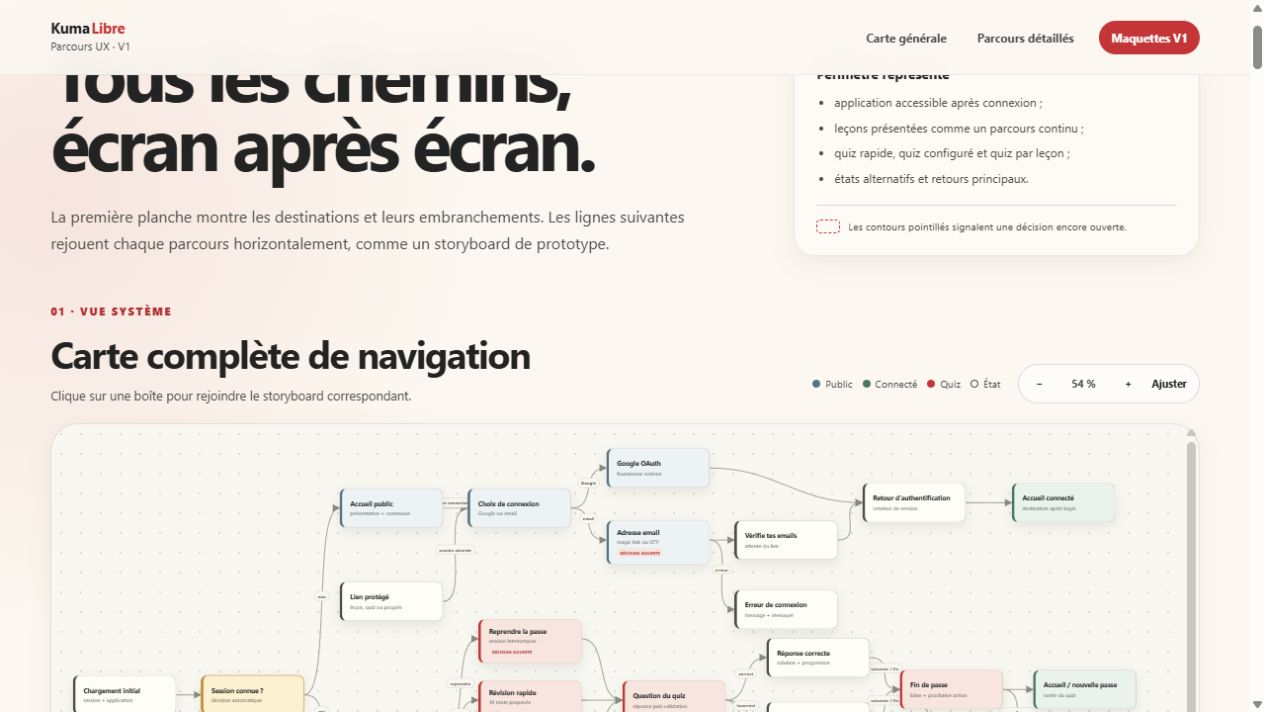
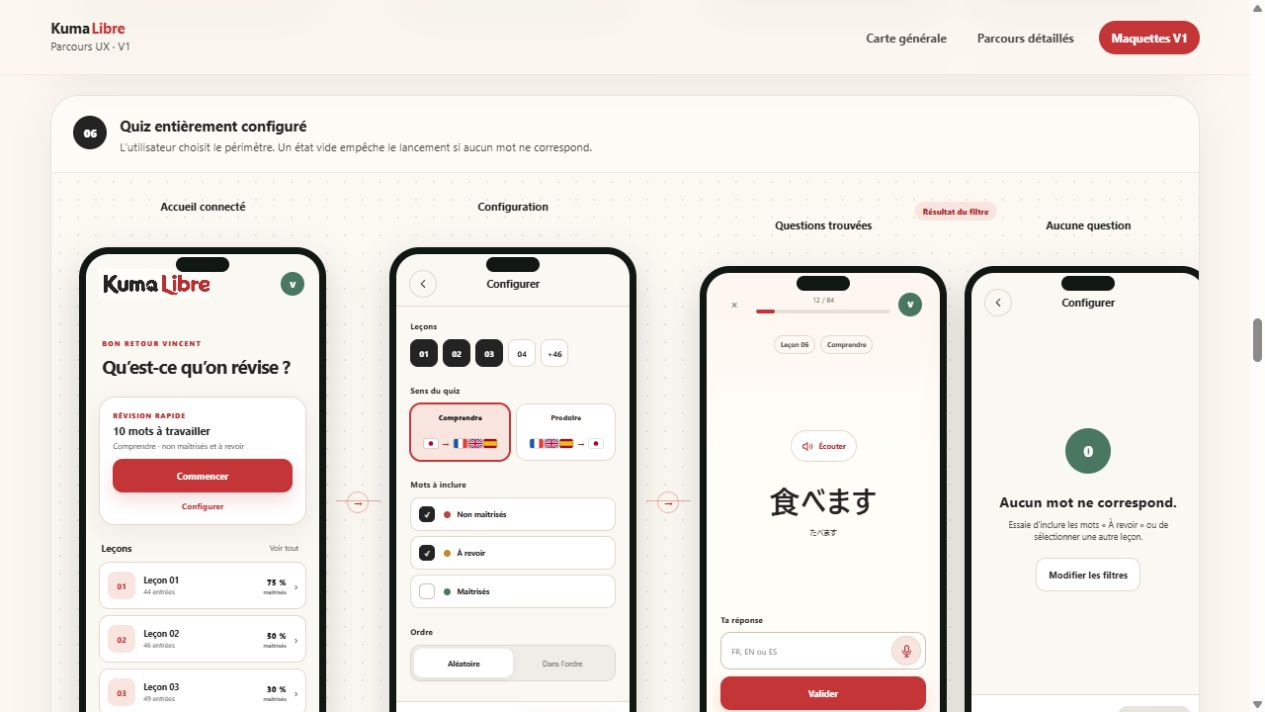
design: expose voice dictation in quiz

diff --git a/mockups/v1/flows.js b/mockups/v1/flows.js
@@ -223,7 +223,7 @@ const screenTemplates = {
       <div class="quiz-top"><button>×</button><span><small>12 / 84</small><i><u style="width: 14%"></u></i></span><button class="profile-trigger" aria-label="Ouvrir le menu du profil">${avatarMark()}</button></div>
       <div class="quiz-tags"><span>Leçon 06</span><span>Comprendre</span></div>
       <div class="word-question"><button class="mini-audio-button" aria-label="Écouter le mot japonais">${uiIcon("volume")}<span>Écouter</span></button><strong lang="ja">食べます</strong><small lang="ja">たべます</small></div>
-      <div class="answer-box"><label>Ta réponse</label><div><input placeholder="FR, EN ou ES" readonly /><button>●</button></div><button class="mini-primary">Valider</button><button class="mini-link">Je ne sais pas</button></div>
+      <div class="answer-box"><label>Ta réponse</label><div><input placeholder="FR, EN ou ES" readonly /><button class="mini-microphone" type="button" aria-label="Dicter ma réponse" title="Dicter ma réponse">${uiIcon("microphone")}</button></div><button class="mini-primary">Valider</button><button class="mini-link">Je ne sais pas</button></div>
     </div>`,
 
   correct: () => `
@@ -450,7 +450,8 @@ function uiIcon(name) {
     book: '<path d="M4 5.5A2.5 2.5 0 0 1 6.5 3H11v16H6.5A2.5 2.5 0 0 0 4 21V5.5ZM20 5.5A2.5 2.5 0 0 0 17.5 3H13v16h4.5A2.5 2.5 0 0 1 20 21V5.5Z"></path>',
     chart: '<path d="M5 20V10M12 20V4M19 20v-7"></path>',
     globe: '<circle cx="12" cy="12" r="9"></circle><path d="M3 12h18M12 3a14 14 0 0 1 0 18M12 3a14 14 0 0 0 0 18"></path>',
-    volume: '<path d="M11 5 6.5 9H3v6h3.5l4.5 4V5Z"></path><path d="M15 9.5a4 4 0 0 1 0 5M17.8 7a7.4 7.4 0 0 1 0 10"></path>'
+    volume: '<path d="M11 5 6.5 9H3v6h3.5l4.5 4V5Z"></path><path d="M15 9.5a4 4 0 0 1 0 5M17.8 7a7.4 7.4 0 0 1 0 10"></path>',
+    microphone: '<rect x="9" y="3" width="6" height="11" rx="3"></rect><path d="M5.5 11a6.5 6.5 0 0 0 13 0M12 17.5V21M9 21h6"></path>'
   };
 
   return `<svg class="mini-ui-icon" viewBox="0 0 24 24" aria-hidden="true">${paths[name]}</svg>`;

diff --git a/mockups/v1/flows.css b/mockups/v1/flows.css
@@ -1851,6 +1851,21 @@ main {
   font-size: 0.54rem;
 }
 
+.answer-box > div .mini-microphone {
+  width: 30px;
+  height: 30px;
+  margin-right: 4px;
+  border: 1px solid var(--line);
+  border-radius: 50%;
+  color: var(--brand-dark);
+  background: var(--brand-soft);
+}
+
+.answer-box > div .mini-microphone .mini-ui-icon {
+  width: 15px;
+  height: 15px;
+}
+
 .answer-box .mini-link {
   margin-top: -2px;
 }

diff --git a/mockups/v1/REVIEW-NOTES.md b/mockups/v1/REVIEW-NOTES.md
@@ -45,3 +45,11 @@ Les icônes simples sont dessinées en SVG inline. Une dépendance comme Font Aw
 
 Le détail de la migration est consigné dans [`../../reference/corpus-i18n-audit.md`](../../reference/corpus-i18n-audit.md).
 
+## Passe du 17 octobre 2026 — dictée vocale
+
+### Intégré
+
+- **Réponse vocale** : remplacer le point rouge ambigu dans le champ de réponse par une vraie icône de microphone, nommée `Dicter ma réponse` pour les technologies d'assistance.
+- **Comportement attendu** : le microphone lance la reconnaissance vocale, puis insère la transcription dans le même input que la saisie clavier. Le texte reste modifiable et n'est validé que par une action explicite de l'utilisateur.
+- **Confidentialité** : le contrôle ne représente pas un enregistrement audio persistant. Aucun fichier sonore n'est stocké dans l'application ou dans sa base de données.
+

diff --git a/ARCHITECTURE.md b/ARCHITECTURE.md
@@ -537,6 +537,8 @@ La lecture vocale et la liste des voix disponibles dépendent du navigateur et d
 
 Le bouton microphone est intégré à l'input, selon un comportement proche des applications de messagerie :
 
+Ce contrôle démarre une session temporaire de reconnaissance vocale, pas un enregistrement audio destiné à être sauvegardé ou réécouté.
+
 1. l'utilisateur active le microphone ;
 2. l'application demande l'autorisation si nécessaire ;
 3. l'interface indique clairement que l'écoute est active ;
